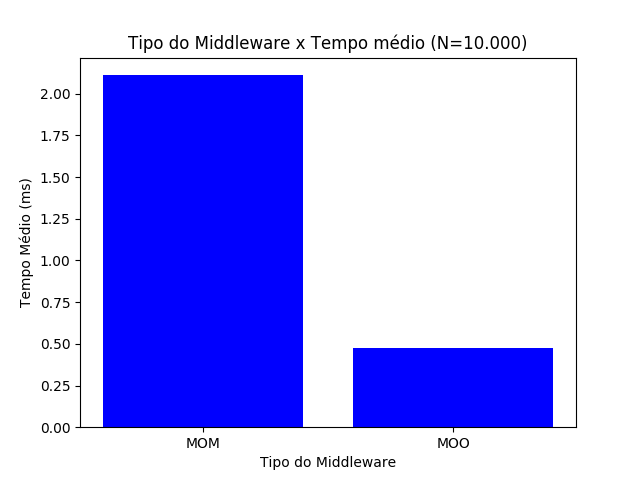
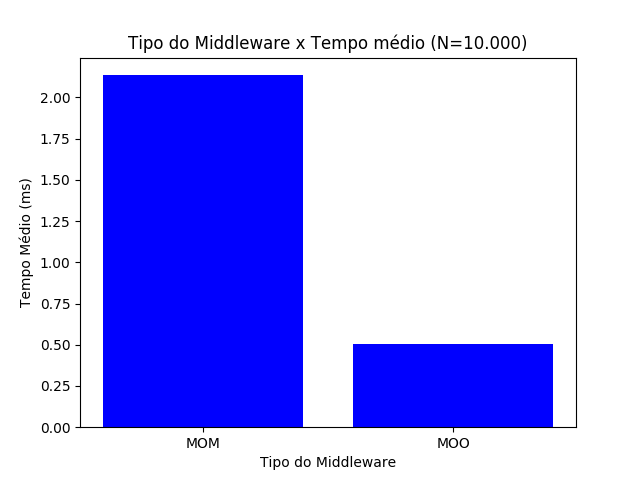
ajeitando o script de analise

diff --git a/L2/Analise_comparativa/analise.py b/L2/Analise_comparativa/analise.py
@@ -6,52 +6,57 @@ from scipy import stats
 
 
 dirpath = os.getcwd() + '/Analise_comparativa'
-numClients = '5'
-file1 = dirpath+'/MOM/dataBase'+numClients+'.csv'
-file2 = dirpath+'/MOO/dataBase'+numClients+'.csv'
-df = pd.read_csv(file1)
-df2 = pd.read_csv(file2)
+outFile = open(dirpath+'/log.txt', 'w')
 
-dados = df["data"]
-mom = dados[1:-1]
-mom = mom.astype('float64')
+for numClients in range(1,6):
+    numClients = str(numClients)
+    file1 = dirpath+'/MOM/dataBase'+numClients+'.csv'
+    file2 = dirpath+'/MOO/dataBase'+numClients+'.csv'
+    df = pd.read_csv(file1)
+    df2 = pd.read_csv(file2)
 
-dados = df2["data"]
-moo = dados[1:-1]
-moo = moo.astype('float64')
+    dados = df["data"]
+    mom = dados[1:-1]
+    mom = mom.astype('float64')
 
-# Média
-mean_mom = mom.mean()
-mean_moo = moo.mean()
+    dados = df2["data"]
+    moo = dados[1:-1]
+    moo = moo.astype('float64')
 
-# Desvio Padrao
-std_mom = mom.std()
-std_moo = moo.std()
+    # Média
+    mean_mom = mom.mean()
+    mean_moo = moo.mean()
 
-#t-value e p-value (2 sample t-test)
-t2, p2 = stats.ttest_ind(mom,moo)
+    # Desvio Padrao
+    std_mom = mom.std()
+    std_moo = moo.std()
 
-outFile = open(dirpath+'/log.txt', 'a')
-outFile.write(numClients + ' Cliente:\n')
-outFile.write('-----------------MOM-----------------\n')
-outFile.write('média = ' + str(mean_mom) + '\n')
-outFile.write('desvio Padrão = ' + str(std_mom) + '\n')
-outFile.write('-----------------MOO-----------------\n')
-outFile.write('média = ' + str(mean_moo) + '\n')
-outFile.write('desvio Padrão = ' + str(std_moo) + '\n')
-outFile.write('-----------------t-Test--------------\n')
-outFile.write('t = ' + str(t2) + '\n')
-outFile.write('p = ' + str(p2) + '\n')
-outFile.write('-------------------------------------\n')
+    #t-value e p-value (2 sample t-test)
+    t2, p2 = stats.ttest_ind(mom,moo)
+
+    if numClients > '1':
+        outFile.write('\n\n')
+    outFile.write(numClients + ' Cliente:\n')
+    outFile.write('-----------------MOM-----------------\n')
+    outFile.write('média = ' + str(mean_mom) + '\n')
+    outFile.write('desvio Padrão = ' + str(std_mom) + '\n')
+    outFile.write('-----------------MOO-----------------\n')
+    outFile.write('média = ' + str(mean_moo) + '\n')
+    outFile.write('desvio Padrão = ' + str(std_moo) + '\n')
+    outFile.write('-----------------t-Test--------------\n')
+    outFile.write('t = ' + str(t2) + '\n')
+    outFile.write('p = ' + str(p2) + '\n')
+    outFile.write('-------------------------------------\n')
+
+    medias = [mean_mom,mean_moo]
+    configs = ['MOM','MOO']
+
+    plt.bar(configs,medias,color="blue")
+    plt.xticks(configs)
+    plt.ylabel('Tempo Médio (ms)')
+    plt.xlabel('Tipo do Middleware')
+    plt.title('Tipo do Middleware x Tempo médio (N=10.000)')
+    plt.savefig(dirpath+'/Grafico'+numClients+'.png', format='png')
+    # plt.show()
+
 outFile.close()
-
-medias = [mean_mom,mean_moo]
-configs = ['MOM','MOO']
-
-plt.bar(configs,medias,color="blue")
-plt.xticks(configs)
-plt.ylabel('Tempo Médio (ms)')
-plt.xlabel('Tipo do Middleware')
-plt.title('Tipo do Middleware x Tempo médio (N=10.000)')
-plt.savefig(dirpath+'/Grafico'+numClients+'.png', format='png')
-# plt.show()
